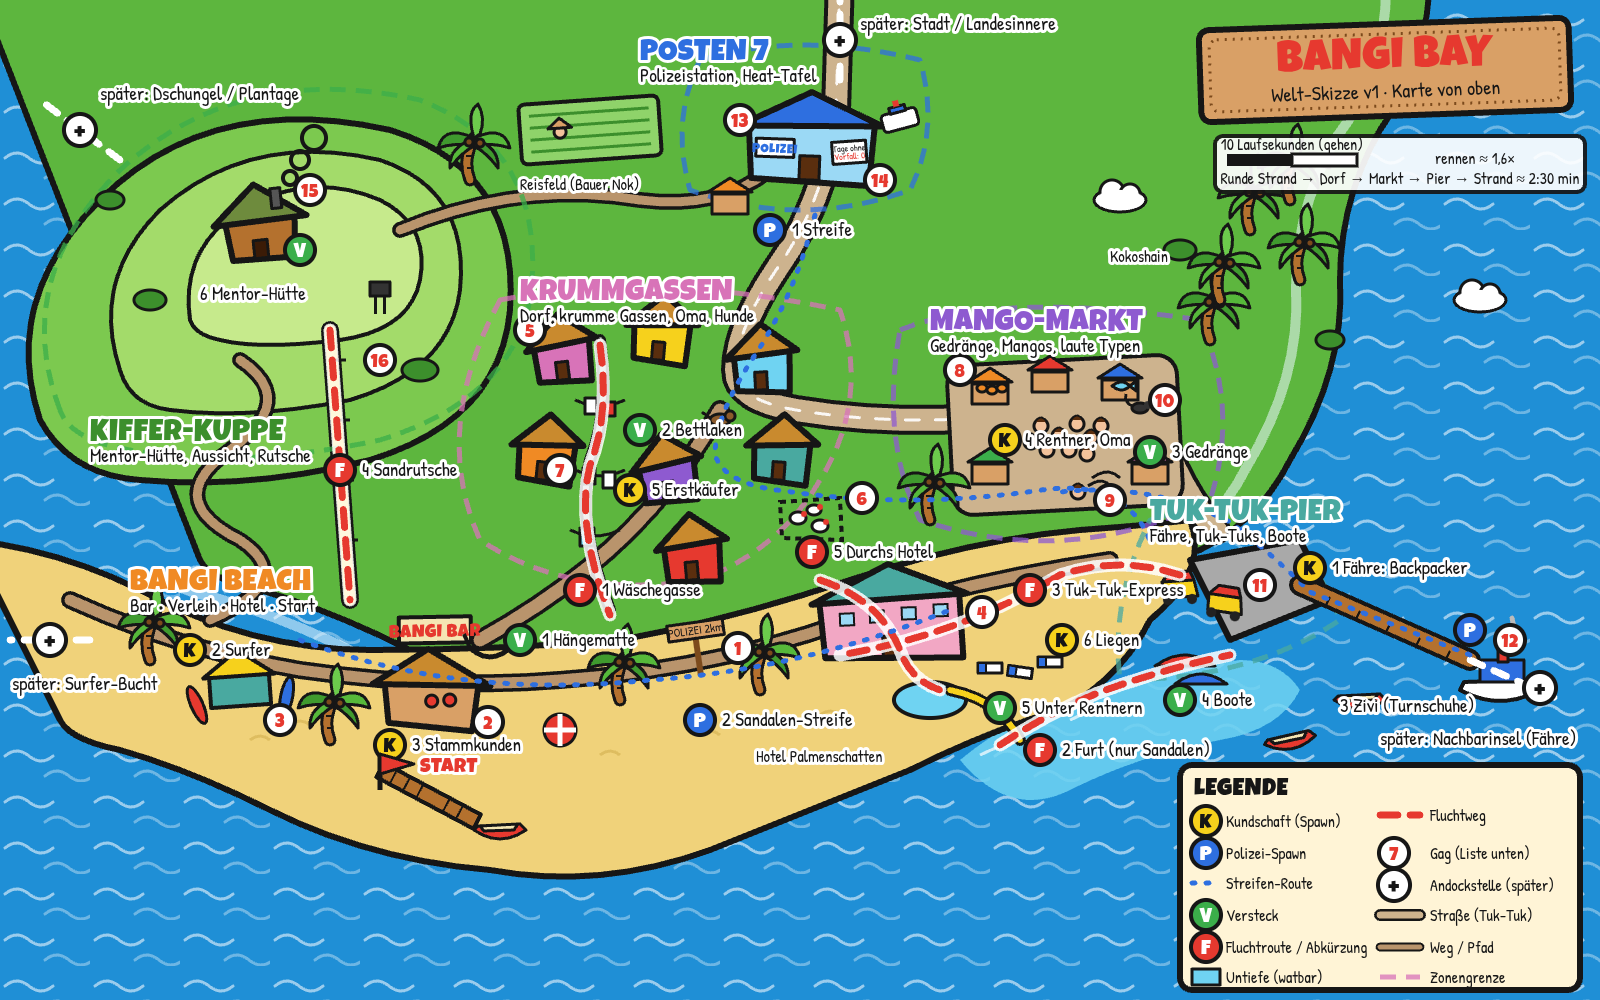
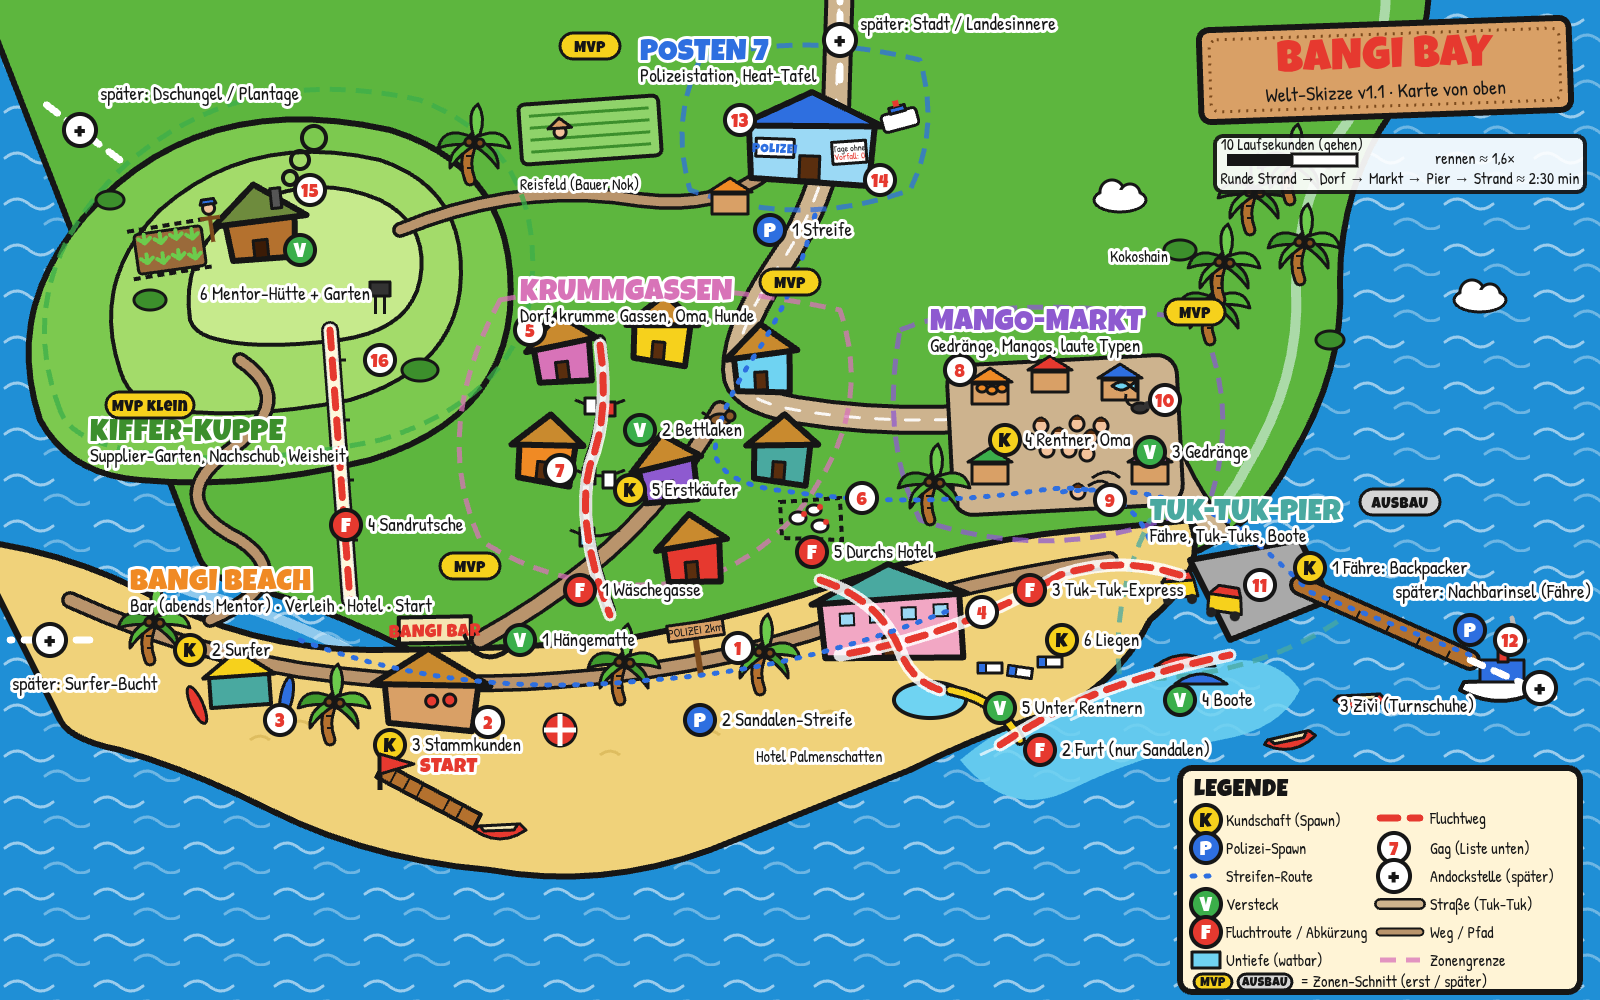
Welt-Skizze v1.1: Mentor als Supplier, MVP-Schnitt

diff --git a/welt/index.html b/welt/index.html
@@ -3,7 +3,7 @@
 <head>
 <meta charset="utf-8">
 <meta name="viewport" content="width=device-width, initial-scale=1">
-<title>Bangi Bay – Welt-Skizze v1</title>
+<title>Bangi Bay – Welt-Skizze v1.1</title>
 <link rel="preconnect" href="https://fonts.googleapis.com">
 <link href="https://fonts.googleapis.com/css2?family=Luckiest+Guy&family=Patrick+Hand&display=swap" rel="stylesheet">
 <style>
@@ -286,6 +286,16 @@
   <rect x="14" y="-40" width="10" height="20" fill="#555" class="o3"/>
 </g>
 <g fill="none" stroke="var(--ink)" stroke-width="4"><circle cx="290" cy="178" r="7"/><circle cx="300" cy="160" r="9"/><circle cx="314" cy="138" r="12"/></g>
+<!-- Garten des Mentors (Nachschub) -->
+<g transform="translate(170,250) rotate(-8)">
+  <rect x="-34" y="-20" width="68" height="40" rx="4" fill="#9A6A3A" class="o3"/>
+  <g stroke="#6CCB4C" stroke-width="4" stroke-linecap="round" fill="none">
+    <path d="M-24 -10 l 0 -9 M-24 -10 l -6 -5 M-24 -10 l 6 -5 M-8 -8 l 0 -10 M-8 -8 l -6 -5 M-8 -8 l 6 -5 M8 -10 l 0 -9 M8 -10 l -6 -5 M8 -10 l 6 -5 M24 -8 l 0 -10 M24 -8 l -6 -5 M24 -8 l 6 -5"/>
+    <path d="M-24 10 l 0 -9 M-24 10 l -6 -5 M-24 10 l 6 -5 M-8 12 l 0 -10 M-8 12 l -6 -5 M-8 12 l 6 -5 M8 10 l 0 -9 M8 10 l -6 -5 M8 10 l 6 -5 M24 12 l 0 -10 M24 12 l -6 -5 M24 12 l 6 -5"/>
+  </g>
+  <path d="M-40 -24 L 40 -26 M-40 24 L 40 22" stroke="var(--ink)" stroke-width="4" stroke-dasharray="7 5"/>
+  <g transform="translate(44,-14)"><rect x="-2" y="-18" width="4" height="30" fill="var(--wood-dark)"/><rect x="-10" y="-14" width="20" height="4" fill="var(--wood-dark)"/><circle cy="-22" r="6" fill="#F2C29B" class="o3"/><path d="M-8 -26 L 8 -26 L 6 -31 L -6 -31 Z" fill="var(--blue)" class="o3"/></g>
+</g>
 <!-- Fernglas-Aussichtspunkt -->
 <g transform="translate(380,290)"><rect x="-10" y="-8" width="20" height="14" fill="#333" class="o3"/><rect x="-6" y="6" width="3" height="18" fill="var(--ink)"/><rect x="3" y="6" width="3" height="18" fill="var(--ink)"/></g>
 <!-- Blumen/Büsche -->
@@ -348,12 +358,12 @@
 <use href="#mV" x="1150" y="452"/><text x="1172" y="458" class="t halo">3 Gedränge</text>
 <use href="#mV" x="1180" y="700"/><text x="1202" y="706" class="t halo">4 Boote</text>
 <use href="#mV" x="1000" y="708"/><text x="1022" y="714" class="t halo">5 Unter Rentnern</text>
-<use href="#mV" x="300" y="250"/><text x="200" y="300" class="t halo">6 Mentor-Hütte</text>
+<use href="#mV" x="300" y="250"/><text x="200" y="300" class="t halo">6 Mentor-Hütte + Garten</text>
 <!-- Fluchtrouten-Marker -->
 <use href="#mF" x="580" y="590"/><text x="602" y="596" class="t halo">1 Wäschegasse</text>
 <use href="#mF" x="1040" y="750"/><text x="1062" y="756" class="t halo">2 Furt (nur Sandalen)</text>
 <use href="#mF" x="1030" y="590"/><text x="1052" y="596" class="t halo">3 Tuk-Tuk-Express</text>
-<use href="#mF" x="340" y="470"/><text x="362" y="476" class="t halo">4 Sandrutsche</text>
+<use href="#mF" x="346" y="525"/><text x="368" y="531" class="t halo">4 Sandrutsche</text>
 <use href="#mF" x="812" y="552"/><text x="834" y="558" class="t halo">5 Durchs Hotel</text>
 
 <!-- ===== GAGS (nummeriert) ===== -->
@@ -386,18 +396,27 @@
   <text x="90" y="440" fill="var(--grass-dark)">KIFFER-KUPPE</text>
 </g>
 <g class="t halo" font-size="17">
-  <text x="130" y="612">Bar · Verleih · Hotel · Start</text>
+  <text x="130" y="612">Bar (abends Mentor) · Verleih · Hotel · Start</text>
   <text x="520" y="322">Dorf, krumme Gassen, Oma, Hunde</text>
   <text x="930" y="352">Gedränge, Mangos, laute Typen</text>
   <text x="1150" y="542">Fähre, Tuk-Tuks, Boote</text>
   <text x="640" y="82">Polizeistation, Heat-Tafel</text>
-  <text x="90" y="462">Mentor-Hütte, Aussicht, Rutsche</text>
+  <text x="90" y="462">Supplier-Garten, Nachschub, Weisheit</text>
+</g>
+<!-- MVP-Marken -->
+<g class="lg" font-size="15" text-anchor="middle">
+  <g transform="translate(470,566)"><rect x="-30" y="-13" width="60" height="26" rx="13" fill="var(--yellow)" class="o3"/><text y="6" fill="var(--ink)">MVP</text></g>
+  <g transform="translate(790,282)"><rect x="-30" y="-13" width="60" height="26" rx="13" fill="var(--yellow)" class="o3"/><text y="6" fill="var(--ink)">MVP</text></g>
+  <g transform="translate(1195,312)"><rect x="-30" y="-13" width="60" height="26" rx="13" fill="var(--yellow)" class="o3"/><text y="6" fill="var(--ink)">MVP</text></g>
+  <g transform="translate(590,46)"><rect x="-30" y="-13" width="60" height="26" rx="13" fill="var(--yellow)" class="o3"/><text y="6" fill="var(--ink)">MVP</text></g>
+  <g transform="translate(150,405)"><rect x="-44" y="-13" width="88" height="26" rx="13" fill="var(--yellow)" class="o3"/><text y="6" fill="var(--ink)">MVP klein</text></g>
+  <g transform="translate(1400,502)"><rect x="-40" y="-13" width="80" height="26" rx="13" fill="#D5D5D5" class="o3"/><text y="6" fill="var(--ink)">AUSBAU</text></g>
 </g>
 <!-- Andock-Beschriftungen -->
 <g class="t halo" font-size="17" fill="var(--ink)">
   <text x="860" y="30">später: Stadt / Landesinnere</text>
   <text x="12" y="690">später: Surfer-Bucht</text>
-  <text x="1380" y="745">später: Nachbarinsel (Fähre)</text>
+  <text x="1395" y="598">später: Nachbarinsel (Fähre)</text>
   <text x="100" y="100">später: Dschungel / Plantage</text>
 </g>
 <!-- Start -->
@@ -408,7 +427,7 @@
   <rect x="-185" y="-46" width="370" height="92" rx="10" fill="#D9A066" class="o"/>
   <rect x="-175" y="-36" width="350" height="72" rx="8" fill="none" stroke="var(--wood-dark)" stroke-width="3" stroke-dasharray="2 6"/>
   <text y="-2" text-anchor="middle" class="lg" font-size="44" fill="var(--red)">BANGI BAY</text>
-  <text y="28" text-anchor="middle" font-size="20" fill="var(--ink)">Welt-Skizze v1 · Karte von oben</text>
+  <text y="28" text-anchor="middle" font-size="20" fill="var(--ink)">Welt-Skizze v1.1 · Karte von oben</text>
 </g>
 <!-- Maßstab -->
 <g transform="translate(1245,160)">
@@ -422,23 +441,24 @@
 <use href="#wolke" x="1120" y="200"/><use href="#wolke" x="1480" y="300"/>
 
 <!-- ===== LEGENDE ===== -->
-<g transform="translate(1180,765)">
-  <rect x="0" y="0" width="400" height="225" rx="12" fill="var(--paper)" class="o"/>
-  <text x="14" y="30" class="lg" font-size="24" fill="var(--ink)">LEGENDE</text>
+<g transform="translate(1180,768)">
+  <rect x="0" y="0" width="400" height="224" rx="12" fill="var(--paper)" class="o"/>
+  <text x="14" y="28" class="lg" font-size="24" fill="var(--ink)">LEGENDE</text>
   <g class="ts">
-    <use href="#mK" x="26" y="56"/><text x="46" y="62">Kundschaft (Spawn)</text>
-    <use href="#mP" x="26" y="88"/><text x="46" y="94">Polizei-Spawn</text>
-    <path class="streife" d="M12 118 L 40 118"/><text x="46" y="124">Streifen-Route</text>
-    <use href="#mV" x="26" y="150"/><text x="46" y="156">Versteck</text>
-    <use href="#mF" x="26" y="182"/><text x="46" y="188">Fluchtroute / Abkürzung</text>
+    <use href="#mK" x="26" y="52"/><text x="46" y="58">Kundschaft (Spawn)</text>
+    <use href="#mP" x="26" y="80"/><text x="46" y="86">Polizei-Spawn</text>
+    <path class="streife" d="M12 108 L 40 108"/><text x="46" y="114">Streifen-Route</text>
+    <use href="#mV" x="26" y="136"/><text x="46" y="142">Versteck</text>
+    <use href="#mF" x="26" y="164"/><text x="46" y="170">Fluchtroute / Abkürzung</text>
+    <rect x="12" y="184" width="28" height="16" fill="var(--shallow)" class="o3"/><text x="46" y="198">Untiefe (watbar)</text>
 
     <path class="flucht" d="M200 50 L 240 50"/><text x="250" y="56">Fluchtweg</text>
-    <use href="#mG" x="214" y="88"/><text x="214" y="95" text-anchor="middle" class="lg" font-size="18" fill="var(--red)">7</text><text x="250" y="94">Gag (Liste unten)</text>
-    <use href="#mD" x="214" y="120"/><text x="250" y="126">Andockstelle (später)</text>
-    <path d="M200 150 L 240 150" stroke="var(--ink)" stroke-width="12" stroke-linecap="round"/><path d="M200 150 L 240 150" stroke="var(--road)" stroke-width="7" stroke-linecap="round"/><text x="250" y="156">Straße (Tuk-Tuk)</text>
-    <path d="M200 182 L 240 182" stroke="var(--ink)" stroke-width="9" stroke-linecap="round"/><path d="M200 182 L 240 182" stroke="var(--dirt)" stroke-width="5" stroke-linecap="round"/><text x="250" y="188">Weg / Pfad</text>
-    <path class="zone" stroke="var(--pink)" d="M200 212 L 240 212"/><text x="250" y="218">Zonengrenze</text>
-    <rect x="12" y="204" width="28" height="16" fill="var(--shallow)" class="o3"/><text x="46" y="218">Untiefe (watbar)</text>
+    <use href="#mG" x="214" y="80"/><text x="214" y="87" text-anchor="middle" class="lg" font-size="18" fill="var(--red)">7</text><text x="250" y="86">Gag (Liste unten)</text>
+    <use href="#mD" x="214" y="108"/><text x="250" y="114">Andockstelle (später)</text>
+    <path d="M200 136 L 240 136" stroke="var(--ink)" stroke-width="12" stroke-linecap="round"/><path d="M200 136 L 240 136" stroke="var(--road)" stroke-width="7" stroke-linecap="round"/><text x="250" y="142">Straße (Tuk-Tuk)</text>
+    <path d="M200 164 L 240 164" stroke="var(--ink)" stroke-width="9" stroke-linecap="round"/><path d="M200 164 L 240 164" stroke="var(--dirt)" stroke-width="5" stroke-linecap="round"/><text x="250" y="170">Weg / Pfad</text>
+    <path class="zone" stroke="var(--pink)" d="M200 192 L 240 192"/><text x="250" y="198">Zonengrenze</text>
+    <g class="lg" font-size="12" text-anchor="middle"><rect x="14" y="206" width="38" height="16" rx="8" fill="var(--yellow)" class="o3"/><text x="33" y="218">MVP</text><rect x="58" y="206" width="54" height="16" rx="8" fill="#D5D5D5" class="o3"/><text x="85" y="218">AUSBAU</text></g><text x="120" y="219">= Zonen-Schnitt (erst / später)</text>
   </g>
 </g>
 </svg>

diff --git a/welt/WELT_SKIZZE.md b/welt/WELT_SKIZZE.md
@@ -1,4 +1,8 @@
-# Bangi Bay – Welt-Skizze v1 (Spiel-Design-Notiz, Oktober 2026)
+# Bangi Bay – Welt-Skizze v1.1 (Spiel-Design-Notiz, Oktober 2026)
+
+**Entschieden (v1.1):** flache Bühne ohne Krümmung („die Erde ist flach“) · Mentor = Supplier, tagsüber im Garten
+auf dem Hügel, abends in der Bangi Bar · MVP = Strand, Krummgassen, Markt, Posten 7 + Hügel (verkleinert) ·
+Verhaftung mild (Tag verloren, Geld bleibt) · Name „Bangi Bay“.
 
 Nur Planung, kein 3D-Bau. Karte: `welt/index.html` (inline-SVG, statisch) · Bild: `welt/shots/karte.png`.
 Grundlage: die Stil-Probe `stiltest/shots/bangi-probe.png`.
@@ -14,7 +18,8 @@ steigt das Land zum Hügel im Nordwesten an. Drei Gründe:
    verlaufen, aber jede Runde hat Abzweige.
 2. **Gefälle = Lesbarkeit.** Polizei oben (Macht, Überblick), Strand unten (Chill, Start). Der Spieler lernt
    räumlich: je weiter nach oben, desto heißer. Der Hügel ist bewusst der Gegenpol: oben, aber sicher
-   (Mentor). Das gibt dem Hügel zwei Funktionen: Rückzug und Aussicht (Leute lesen von oben).
+   (Mentor). Der Hügel hat drei Funktionen: **Nachschub** (der Mentor baut an), **Weisheit** und Rückzug. Ein Gang,
+   drei Zwecke – und derselbe Gang kostet Tageszeit, siehe Z6.
 3. **Fluchtrouten brauchen Höhenunterschied und Wasser.** Sandrutsche (nur runter), Furt (nur Sandalen),
    Wäschegasse (Sichtlinie brechen), Gedränge (untertauchen), Tuk-Tuk (teuer, aber schnell). Jede Route lehrt
    eine andere Mechanik und zeigt auf dem Weg eine andere Zone.
@@ -46,12 +51,17 @@ Das trifft die Vorgabe „2–3 Minuten einmal durch“. Die Welt ist ca. 300 m 
 ### Z1 Bangi Beach (Strand, Bar, Verleih, Hotel) – orange
 - **Stimmung:** Chill, Happy Hour 24h, Sonne stoned (aus der Stilprobe). Start- und Heimatzone, hier wird
   nie verhaftet, höchstens angepfiffen.
-- **Wer steht hier:** Mentor am Tresen (tagsüber), Surfer schlafen auf ihren Brettern (K2), Stammkunden-Schluffis
+- **Wer steht hier:** abends der Mentor am Tresen (siehe Z6), Surfer schlafen auf ihren Brettern (K2), Stammkunden-Schluffis
   (K3), am Ostende das Hotel Palmenschatten mit Rentnern auf Liegen (K6). Sandalen-Streife P2 schlurft die
   Promenade entlang (langsam, pfeift nur).
 - **Lehre / Mechanik:** **Weisheit 1 „Schuhe lesen“** (Tutorial): Sandalen = sicher, Turnschuhe = Läufer oder
   Zivi, Flip-Flops = stolpern. Erster Verkauf an einen Surfer, dann „der Typ mit den Turnschuhen“ aus der Stilprobe
   als Warnbeispiel.
+- **Abends (Tagesabschluss):** Sobald die Sonne im Meer liegt, sitzt der Mentor an der Bar. Dort passiert der
+  Tagesabschluss: Kasse zählen, Heat-Stand als „Stammtisch-Gerücht“ („Pong hat nach dir gefragt…“), der Mentor
+  erzählt die nächste Weisheit als Geschichte von früher (freischalten = Story-Beat), und man bestellt den
+  Nachschub für morgen („Komm morgen hoch, ich hab was geerntet“). Nachts verkauft man nicht; die Bar ist das
+  Kapitel-Ende.
 - **Verstecke:** V1 Hängematte hinter der Bar (Streife läuft vorbei, wenn sie dich nicht reinsteigen sah),
   V5 Unter Rentnern (Hut aufsetzen, auf eine Liege legen).
 - **Fluchtroute:** F5 Durchs Hotel (Lobby rein, Küche raus, über die Pool-Rutsche ins Meer).
@@ -95,19 +105,31 @@ Das trifft die Vorgabe „2–3 Minuten einmal durch“. Die Welt ist ca. 300 m 
 - **Wer steht hier:** Polizist Pong (Sandalen, Dienstvorschrift Tropen), Streife P1 startet hier und läuft die
   Hauptstraße bis zum Pier und zurück. Bei hohem Heat kommen zweite Streife und Zivi dazu.
 - **Lehre / Mechanik:** **Heat sichtbar machen**: die Tafel „Tage ohne Vorfall“ zeigt deinen Stand. Mango abgeben
-  senkt Heat um eine Stufe (einmal pro Tag). Verhaftung = Tag vorbei, Ware weg, Geld bleibt.
+  senkt Heat um eine Stufe (einmal pro Tag). Verhaftung ist mild: Tag vorbei, Ware weg, Geld bleibt.
 - **Gags:** 13 Pong in Sandalen pfeift nur · 14 Heat-Tafel „Tage ohne Vorfall: 0“.
 
-### Z6 Kiffer-Kuppe (Hügel, Mentor-Hütte) – grün
-- **Stimmung:** Oben, ruhig, Rauch aus dem Schornstein. Von hier sieht man die ganze Bucht.
-- **Wer steht hier:** der Mentor (alter Hippie), abends. Tagsüber sitzt er an der Bar; er ist nie unterwegs, er
-  ist einfach da („Ich geh nicht, ich bin“).
-- **Lehre / Mechanik:** **Safe Zone + Speicherpunkt + Heat kühlt ab**. Fernglas-Minispiel am Aussichtspunkt:
-  Leute von oben lesen (Schuhe, Hunde, Hemden) und markieren; markierte Kunden bleiben unten sichtbar.
-  Später: Monsun-Weisheit (Gummistiefel, Regeln wackeln) wird hier erzählt.
+### Z6 Kiffer-Kuppe (Hügel, Mentor-Hütte + Garten) – grün
+- **Stimmung:** Oben, ruhig, Rauch aus dem Schornstein, Gießkanne, ein paar Beete hinter einem schiefen Zaun.
+  Von hier sieht man die ganze Bucht.
+- **Wer steht hier:** der Mentor (alter Hippie) – **er ist der Supplier.** Tagsüber gärtnert er hier und baut an,
+  abends sitzt er in der Bangi Bar (Z1). Man trifft ihn nie unterwegs; er ist einfach schon da.
+- **Lehre / Mechanik – ein Gang, drei Zwecke:**
+  1. **Nachschub holen:** Der Garten gibt pro Tag eine feste Ernte (MVP: 1 Beutel am Morgen; später wächst der
+     Garten mit, wenn man dem Mentor Geld oder Mangos mitbringt). Ohne den Gang nach oben gibt es nichts zu verkaufen.
+  2. **Weisheit:** Beim Abholen gibt es den praktischen Teil der Weisheit, die er abends an der Bar erzählt hat
+     („Siehst du den da unten mit den weißen Schuhen? Der ist neu.“). Später: Fernglas-Minispiel am
+     Aussichtspunkt – Leute von oben lesen und markieren. Später: Monsun-Weisheit (Gummistiefel, Regeln wackeln).
+  3. **Heat kühlt ab + Speicherpunkt:** Oben ist man sicher, die Streife kommt nicht hoch („zu steil“).
+- **Gegenpol gegen Campen (sicherer Ort + Nachschub lädt zum Hocken ein):** Die Zeit läuft oben weiter, und
+  unten kommt die Kundschaft in Wellen: Surfer morgens, Backpacker mittags, Rentner nachmittags. Wer oben sitzt,
+  verpasst die Welle, und die Ernte von heute ist morgen nur noch halb so viel wert („trocken“). Dazu lässt
+  der Mentor niemanden länger als eine Zigarettenlänge rumsitzen: „Gieß wenigstens die Beete, Mann.“
+  (Gießen = kleines Minispiel, kostet weitere Tageszeit, verbessert die Ernte von morgen.) Hoch gehen lohnt sich
+  also genau einmal am Tag, und zwar früh.
 - **Versteck:** V6 Mentor-Hütte (Streife kommt nicht hoch, „zu steil“).
 - **Fluchtroute:** F4 Sandrutsche (Einbahn runter zum Strand, 6 s; Turnschuhe bleiben hängen).
-- **Gags:** 15 Rauch-Wetterbericht · 16 Schild „Nicht mit Turnschuhen“.
+- **Gags:** 15 Rauch-Wetterbericht · 16 Schild „Nicht mit Turnschuhen“ · Vogelscheuche im Garten trägt eine
+  Polizeimütze (die Hühner respektieren sie, der Mentor nicht).
 
 ### Füller (keine Zonen, nur Charme)
 Reisfeld mit Bauer Nok (zwischen Kuppe und Posten; später Kunde mit eigenem Gag), Kokoshain östlich vom Markt
@@ -140,11 +162,10 @@ Technisch: jede Zone ist ein eigenes Tile/Gruppe mit einem Straßen-Anschluss am
 „+“-Punkten angeklebt, Streifen-Routen bekommen dort neue Wegpunkte. Die Insel wächst also als **Bühne, die
 breiter wird**, nicht als Planet, der größer wird – siehe nächster Punkt.
 
-## 6. Empfehlung: Bühne oder kleiner Planet (Kugel)?
+## 6. Bühne oder kleiner Planet (Kugel)? – entschieden: Bühne, flach
 
-**Empfehlung: Bühne (flache Insel, Meer als natürlicher Rand) – plus optional eine „Animal-Crossing-Krümmung“
-im Vertex-Shader, damit der Horizont rund wirkt wie bei Messenger.** Die Stilprobe ist aus demselben Grund
-schon als Bühne gebaut.
+**Entscheidung: Bühne (flache Insel, Meer als natürlicher Rand), ohne Welt-Krümmung.** Die Stilprobe ist aus
+demselben Grund schon als Bühne gebaut. Zur Dokumentation der Abwägung:
 
 | | Bühne (flach) | Kugel (Mini-Planet) |
 |---|---|---|
@@ -155,9 +176,23 @@ schon als Bühne gebaut.
 | Charme | „Insel, die man überblickt“, DOTT-Bühnengefühl | der Messenger-Wow-Effekt beim Rundherumlaufen |
 | Aufwand Three.js | niedrig | mittel bis hoch (Kamera, Physik, Beleuchtung) |
 
-Der Messenger-Effekt lässt sich auf der Bühne zu 70 % faken: Welt-Krümmung im Shader (`y -= dist² · k`), dazu
-Nebel am Horizont. Die Kugel würde unsere Kernmechanik (Schuhe sehen!) aktiv stören. Falls die Kugel
-trotzdem gewünscht ist, dann als **Weltkarte / Levelauswahl** (Inseln auf dem Globus), nicht als Spielfläche.
+Die Kugel würde die Kernmechanik (Schuhe sehen!) aktiv stören. Falls später eine Kugel gewünscht ist, dann als
+**Weltkarte / Levelauswahl** (Inseln auf dem Globus), nicht als Spielfläche. Der Horizont bleibt gerade; die
+Tiefe kommt aus Nebel, Meer und Wolken.
+
+## 6b. MVP-Schnitt der Zonen
+
+| Zone | MVP | Warum |
+|---|---|---|
+| Z1 Bangi Beach | **ja** | Start, Weisheit 1, abends der Mentor (Tagesabschluss) |
+| Z2 Krummgassen | **ja** | Weisheit 2, Sichtlinien, erste Fluchtroute (F1) |
+| Z3 Mango-Markt | **ja** | Weisheit 3, Gedränge, Mango-Bestechung |
+| Z5 Posten 7 | **ja** | Heat sichtbar, Streife P1 |
+| Z6 Kiffer-Kuppe | **ja, verkleinert** | Supplier-Ort: ohne ihn gibt es keine Ware. MVP = Hütte + Garten + Serpentine. Fernglas, Kammweg und Sandrutsche (F4) kommen später. |
+| Z4 Tuk-Tuk-Pier | nein, Ausbau 1 | Weisheit 4 (Hemd), Tuk-Tuk (F3), Furt (F2), Zivi P3 |
+
+Im MVP ist der Hügel damit nur über die Serpentine erreichbar (25 s rauf, 25 s runter): ein klarer Morgen-Gang.
+Die Sandrutsche als Belohnung im Ausbau macht denselben Gang später zum 6-Sekunden-Spaß.
 
 ## 7. Stil-Entscheidungen auf der Karte
 1. **Zonenfarben** (orange, pink, violett, türkis, blau, grün) sind gleichzeitig Vorschlag für die Farbcodes
@@ -166,3 +201,4 @@ trotzdem gewünscht ist, dann als **Weltkarte / Levelauswahl** (Inseln auf dem G
 3. **Fonts:** Luckiest Guy (Titel) + Patrick Hand (Text) – Vorschlag für UI-Schrift im Spiel. Alternative: Bangers.
 4. Die Karte zeigt den Zustand „Tag“. Nacht-Variante (andere Spawns, Streifen mit Taschenlampe) ist bewusst nicht
    eingezeichnet.
+5. **MVP-Marken** an den Zonennamen (gelb „MVP“, grau „Ausbau“) zeigen den Schnitt aus 6b.
